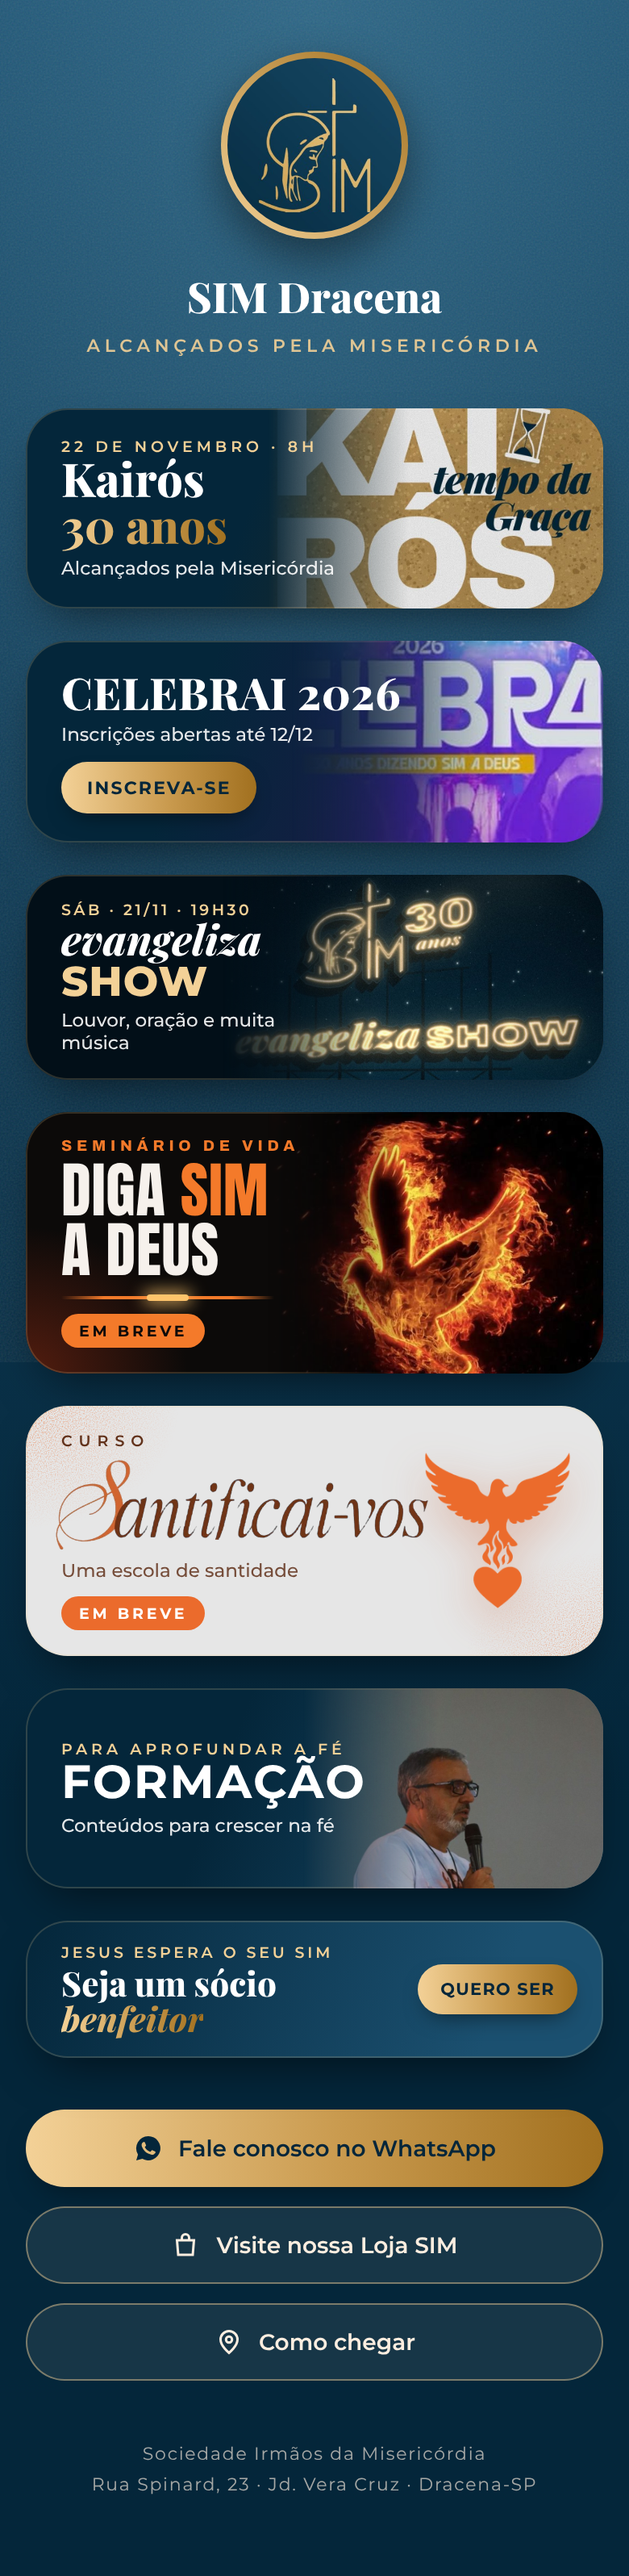
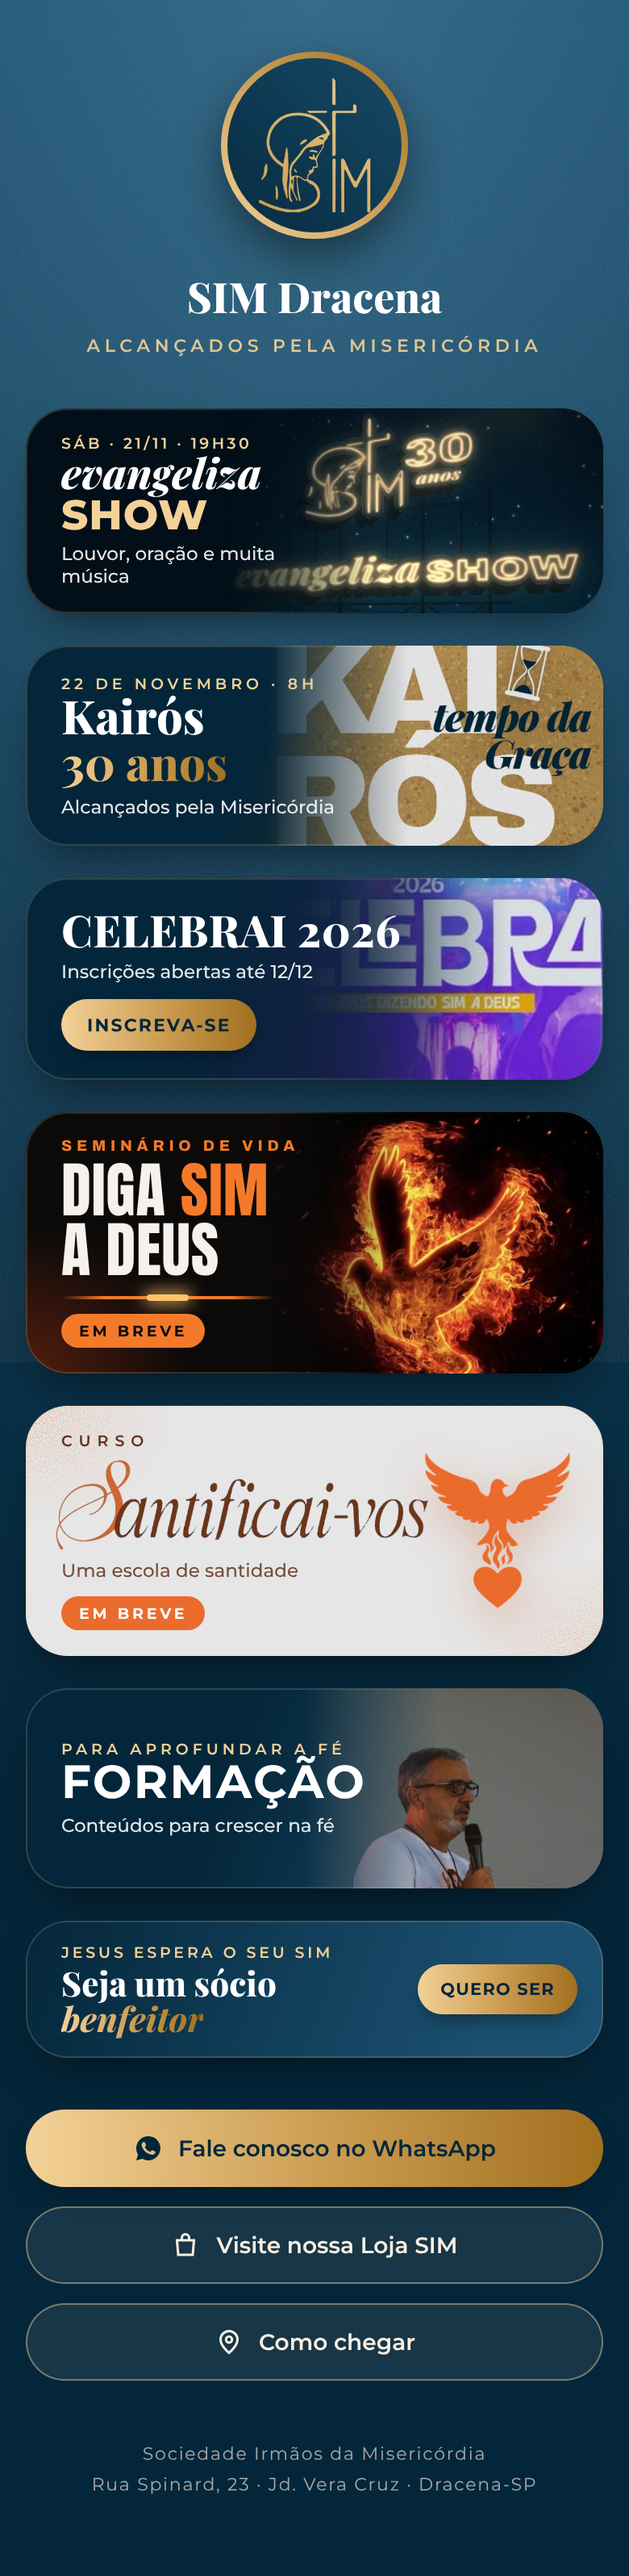
Links: Evangelizashow em primeiro
Claude-Session: https://claude.ai/code/session_01FbCrHFBteKdzqYMDJGtW6G

Changed region(s): [[0.0308, 0.1551, 0.9846, 0.4342]]

diff --git a/links/index.html b/links/index.html
@@ -210,6 +210,16 @@
   -->
   <ul class="abas">
     <li>
+      <div class="card c-evangeliza">
+        <img class="foto" src="img/evangelizashow.jpg" alt="" loading="eager">
+        <span class="txt">
+          <small>Sáb · 21/11 · 19h30</small>
+          <strong><em>evangeliza</em><b>SHOW</b></strong>
+          <span class="info">Louvor, oração e muita música</span>
+        </span>
+      </div>
+    </li>
+    <li>
       <a class="card c-kairos" href="../site/kairos.html">
         <img class="foto" src="img/kairos-arte.jpg" alt="" loading="eager">
         <span class="txt">
@@ -228,16 +238,6 @@
           <span class="cta">Inscreva-se</span>
         </span>
       </a>
-    </li>
-    <li>
-      <div class="card c-evangeliza">
-        <img class="foto" src="img/evangelizashow.jpg" alt="" loading="lazy">
-        <span class="txt">
-          <small>Sáb · 21/11 · 19h30</small>
-          <strong><em>evangeliza</em><b>SHOW</b></strong>
-          <span class="info">Louvor, oração e muita música</span>
-        </span>
-      </div>
     </li>
     <li>
       <a class="card c-seminario" href="../site/diga-sim.html">
